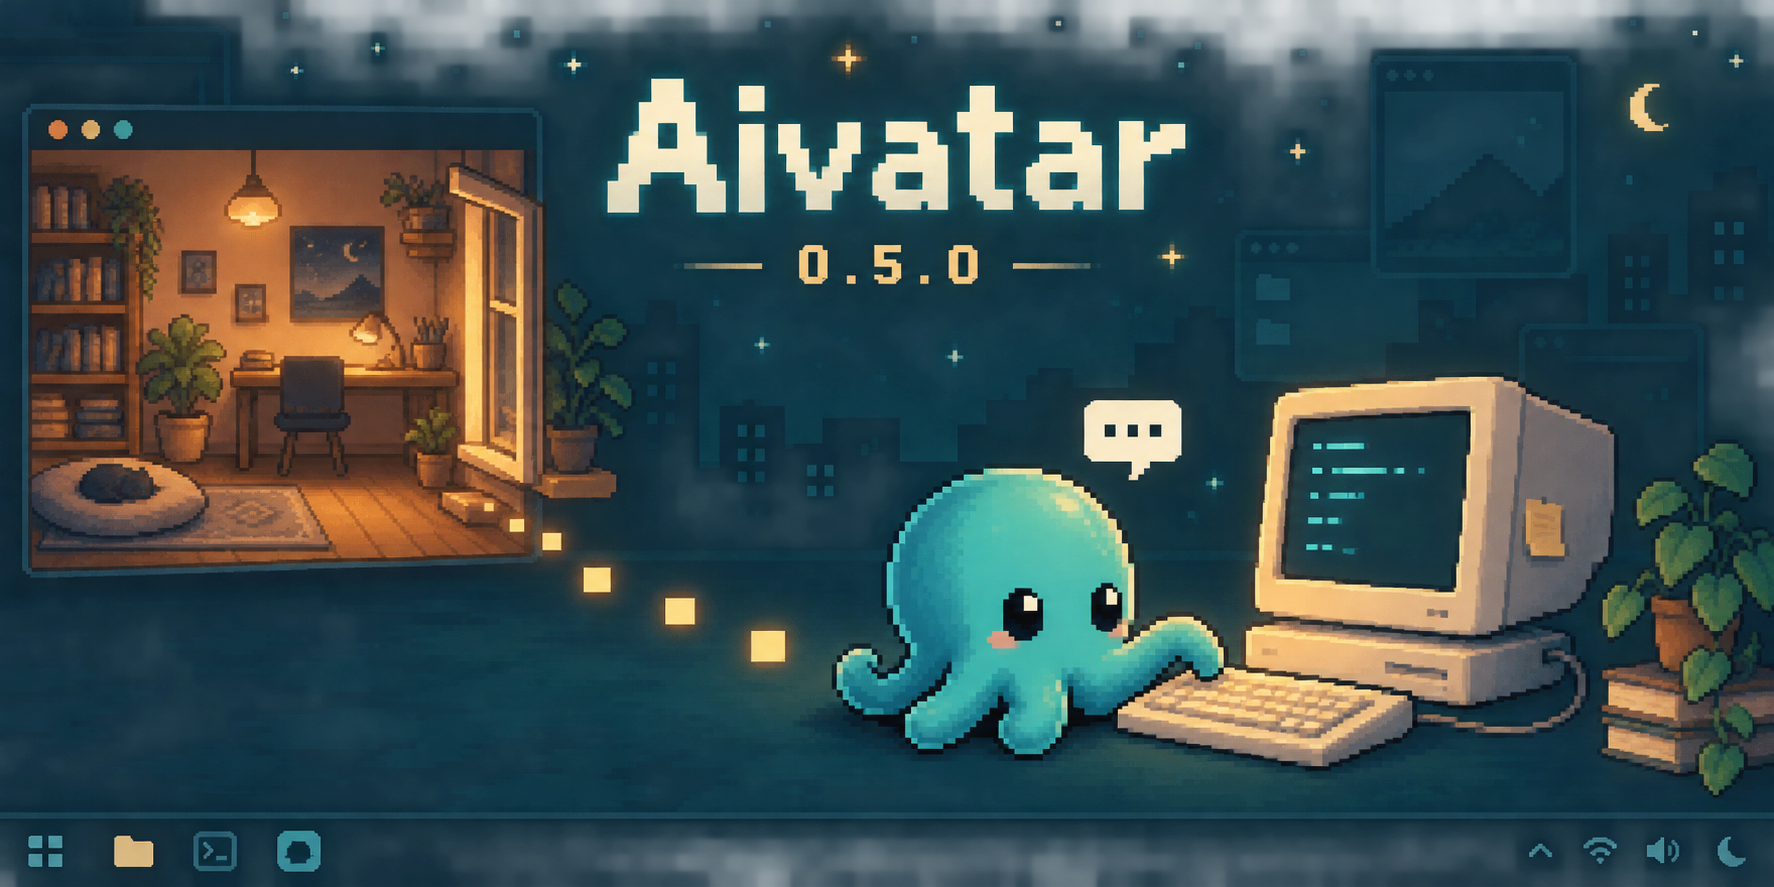
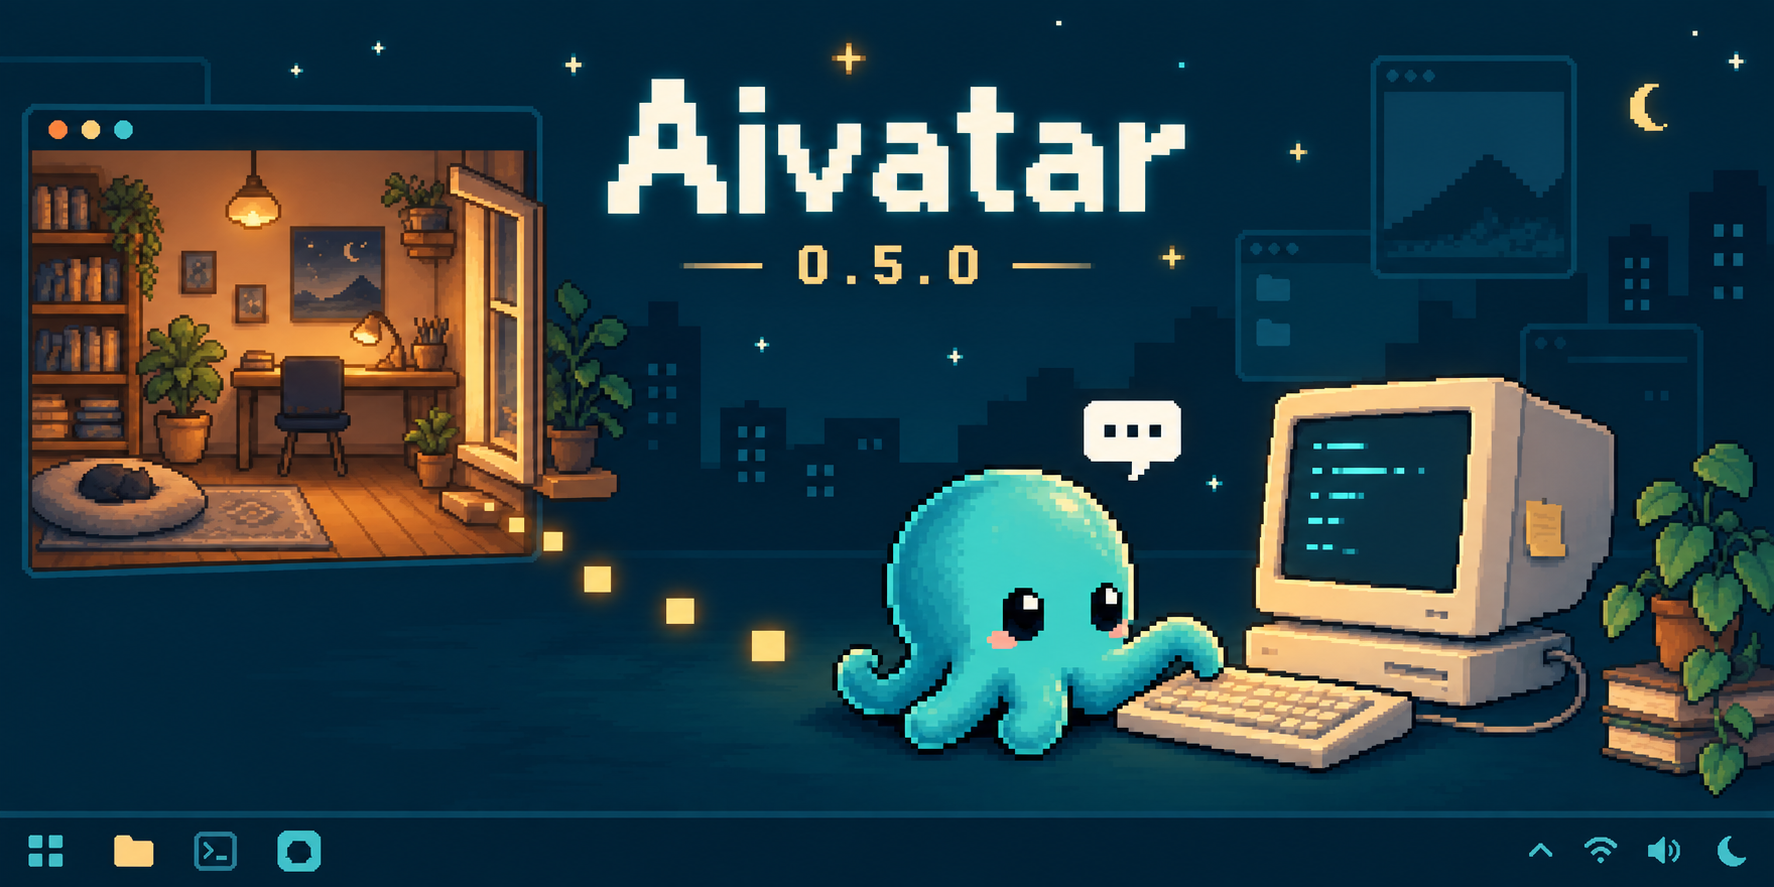
fix: make homepage hero background fully opaque

diff --git a/docs/assets/aivatar-readme-hero-0.5-desktop.prompt.md b/docs/assets/aivatar-readme-hero-0.5-desktop.prompt.md
@@ -5,6 +5,7 @@
 - Created for this repository's 0.5.0 desktop companion release.
 - This is promotional artwork, not an application screenshot.
 - Previous release artwork is retained.
+- Revised on 2026-09-20 to remove accidental transparency and blotchy background texture. Final PNG is RGB, 1774 × 887, with no alpha channel.
 
 ## Generation prompt
 
@@ -14,3 +15,9 @@ Primary concept: the little companion has stepped OUT OF its cozy room window an
 On the left, a smaller warm amber-lit pixel-room application window contains the familiar cozy room, wooden floor, potted plant, books and an empty workspace. Across its open boundary, a short trail of tiny glowing square footprints leads toward the foreground center-right where ONE charming cyan/teal pixel octopus companion stands outside all windows next to its separate cream retro CRT computer and keyboard. Show the octopus reaching toward the keyboard, cute expressive black eyes, rounded octopus silhouette and short tentacles. Computer sits visually behind the companion. A small pixel speech bubble with a simple ellipsis supports the feeling of a living coding companion.
 Beautiful restrained amber, cream and cyan lighting against deep teal/navy; carefully stepped pixel edges, detailed but uncluttered, nostalgic computer-game atmosphere. Keep visual hierarchy clear at GitHub page width.
 Text, exact and legible, in large elegant pixel lettering across upper center: "Aivatar". Smaller secondary text below: "0.5.0". No other readable text. No company logos, no photorealism, no extra characters, no cards/fishing/cooking montage, no watermark. This is a new release banner, not a screenshot.
+
+## Background repair prompt
+
+Tool: built-in imagegen, editing the original banner as its reference image.
+
+Edit the supplied Aivatar 0.5.0 homepage banner to correct its unfinished-looking backdrop. The source has accidental transparency throughout, causing pale gray cloudy blotches around the upper and lower edges when shown over a light background. Deliver a completely opaque, fully painted, full-bleed rectangular banner with NO transparent or translucent pixels anywhere, including all edges and corners. Background must be continuous solid dark midnight navy/teal, clean and even, with a very restrained smooth lighting transition and crisp low-contrast pixel skyline details; remove blotchy fog, cloudy patches, noisy mottling and dirty grunge. The bottom taskbar must also be fully opaque dark teal. Keep all existing composition, canvas aspect ratio 2:1, title typography and exact text "Aivatar" and "0.5.0", warm cozy room at left, cute turquoise octopus beside the cream retro CRT computer and keyboard at right, the ellipsis speech bubble, stars, moon, plants, room furniture, glowing stepping squares, and taskbar icons. Preserve the identity and position of every foreground object and the detailed retro pixel-art style. This is a narrowly targeted background/opacity repair, not a redesign. Do not add extra text or objects. Background color extends uninterrupted to the image boundary; no white border, no transparency, no checkerboard, no feathered edges, no canvas showing through.
